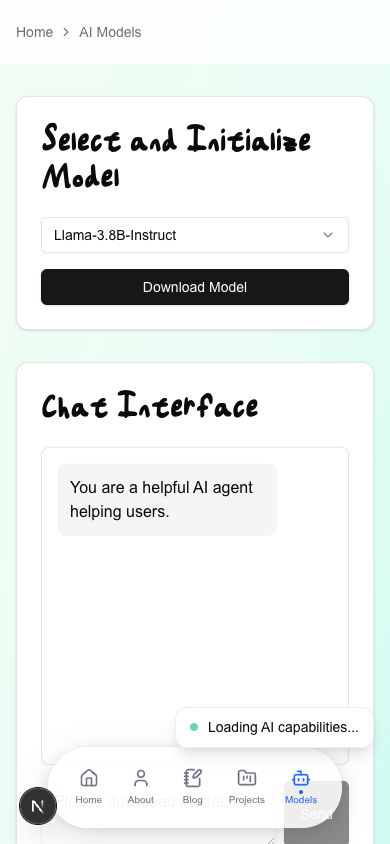
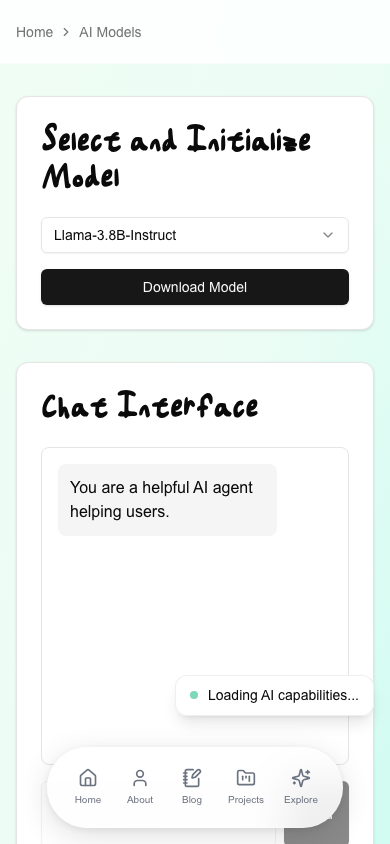
Raise mobile loading toast above the floating nav
bottom-24 sat on the dock; use bottom-32 so the toast stays clear on phone viewports.

diff --git a/src/app/models/page.tsx b/src/app/models/page.tsx
@@ -273,7 +273,7 @@ export default function Page() {
           <div
             role="status"
             aria-live="polite"
-            className="pointer-events-none fixed z-[60] bottom-24 right-4 max-w-[min(18rem,calc(100vw-2rem))] md:bottom-6 md:right-6"
+            className="pointer-events-none fixed z-[60] bottom-32 right-4 max-w-[min(18rem,calc(100vw-2rem))] md:bottom-6 md:right-6"
           >
             <div className="flex items-center gap-2.5 rounded-xl border border-border/60 bg-background/95 px-3.5 py-2.5 text-sm text-foreground shadow-lg backdrop-blur-md">
               <span
